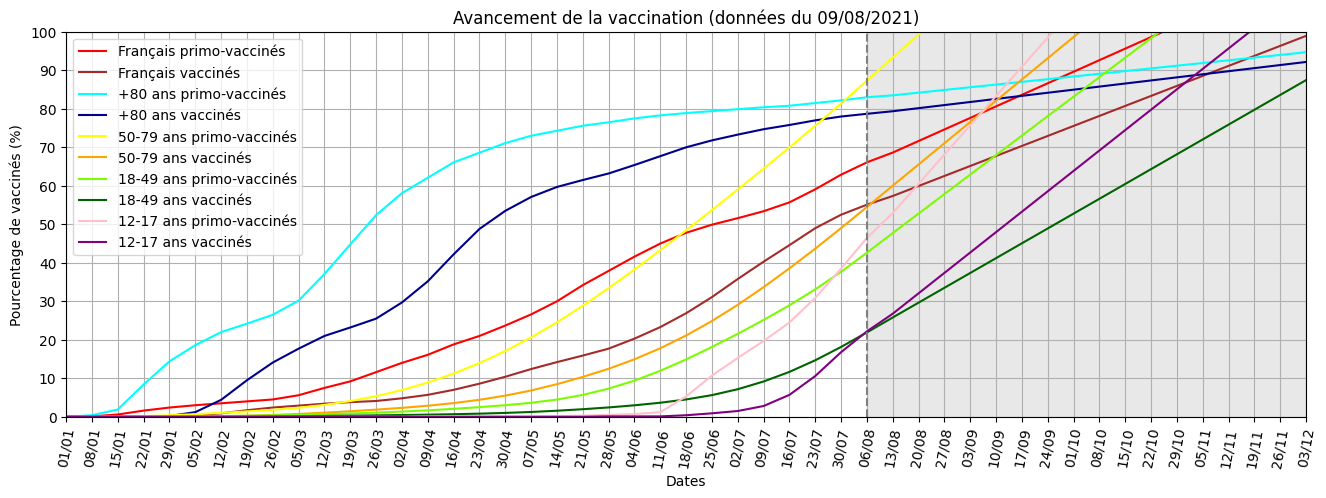
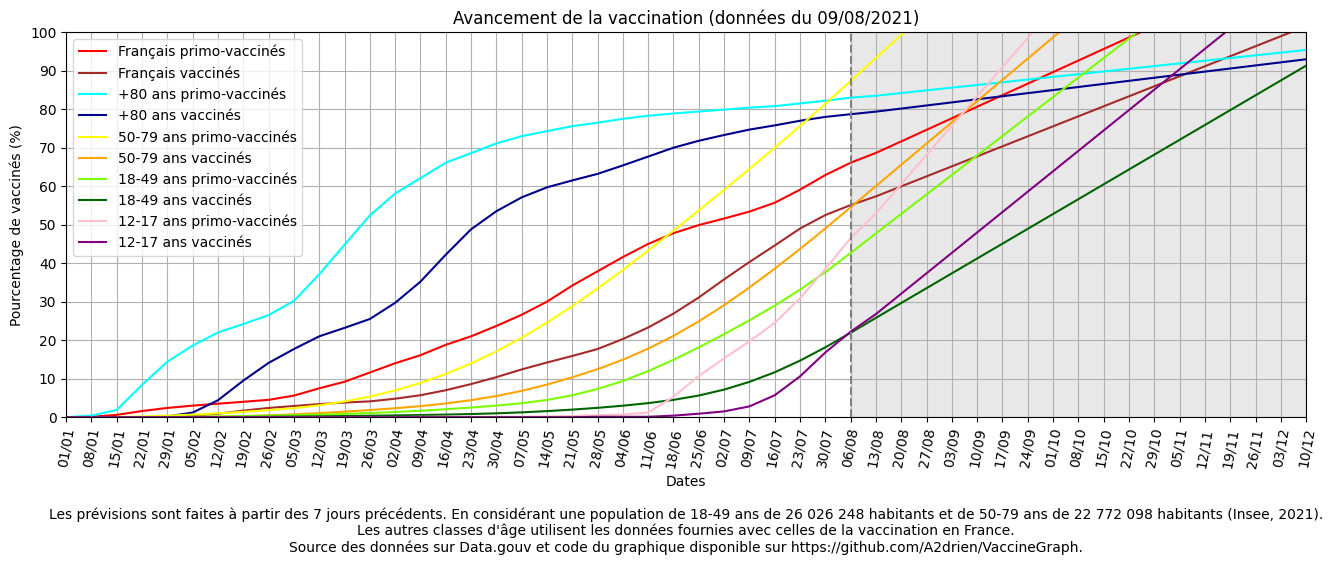
Ajout des notes en fin de graphique

Changed region(s): [[0.0, 0.0, 0.9894, 0.994]]

diff --git a/main.py b/main.py
@@ -47,6 +47,14 @@ def ecartDate(liste):
         if i % limite_ecart_jour == 0: new_liste.append(liste[i])
     return new_liste
 
+def formatNombre(nombre):
+    nombre = str(nombre)
+    j = 0
+    for i in range(1,len(nombre)):
+        if i%3 == 0:
+            nombre = nombre[:-i-j] + " " + nombre[-i-j:]
+            j += 1
+    return nombre
 
 #Début du script
 fichier = open(nom_fichier,"r")                                                 #Ouvre le fichier
@@ -153,8 +161,9 @@ position_date_limite = len(liste_dates)-1                                       
 #Tant que la proportion de vaccinés n'est pas de 100%, étendre le graphique
 coeff = (proportion_vaccines[-1]-proportion_vaccines[-1-nb_jour_prediction])/nb_jour_prediction
 i = 0
+limite_atteinte = False
 #!!! Pas 100% sûr de la formule (remplacer int par un arrondi à l'unité supérieure ?)
-while i <= int((100-proportion_vaccines[-1])/coeff) or (len(liste_dates)-1)%limite_ecart_jour != 0:
+while (limite_date_fin == 0 and (i <= int((100-proportion_vaccines[-1])/coeff) or (len(liste_dates)-1)%limite_ecart_jour != 0)) or (limite_atteinte and (len(liste_dates)-1)%limite_ecart_jour != 0):
     date = date[0:8] + str(int(date[8:])+1)
     if len(date[8:]) == 1: date = date[0:8] + "0" + date[-1] 
     if date[5:7] == "01" and date[8:10] == "32": date = date[0:5] + "02-01"
@@ -172,7 +181,7 @@ while i <= int((100-proportion_vaccines[-1])/coeff) or (len(liste_dates)-1)%limi
     elif date[5:7] == "12" and date[8:10] == "32": date = str(int(date[0:4])+1) + "-01-01"
     i += 1
     liste_dates.append(date)
-    if date == limite_date_fin: break
+    if date == limite_date_fin: limite_atteinte = True
 
 #Passe le format de toutes les dates : AAAA-MM-JJ -> JJ/MM
 for i in range(len(liste_dates)): liste_dates[i] = liste_dates[i][8:11]+"/"+liste_dates[i][5:7]
@@ -212,7 +221,9 @@ plt.margins(0, 0)                                                               
 
 #Défini les titres du graphe et des axes x et y
 plt.title(f"Avancement de la vaccination (données du {nom_fichier[20:22]}/{nom_fichier[17:19]}/{nom_fichier[12:16]})")
-plt.xlabel("Dates")
+plt.xlabel(f"""Dates\n\nLes prévisions sont faites à partir des {formatNombre(nb_jour_prediction)} jours précédents. En considérant une population de 18-49 ans de {formatNombre(pop_18_49_ans)} habitants et de 50-79 ans de {formatNombre(pop_50_79_ans)} habitants (Insee, 2021).
+Les autres classes d'âge utilisent les données fournies avec celles de la vaccination en France.
+Source des données sur Data.gouv et code du graphique disponible sur https://github.com/A2drien/VaccineGraph.""")
 plt.ylabel("Pourcentage de vaccinés (%)")
 
 #Sauvegarde l'image avec la date des données et supprime et les marges exterieures
